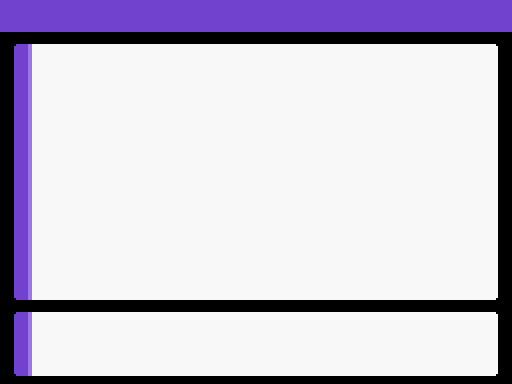
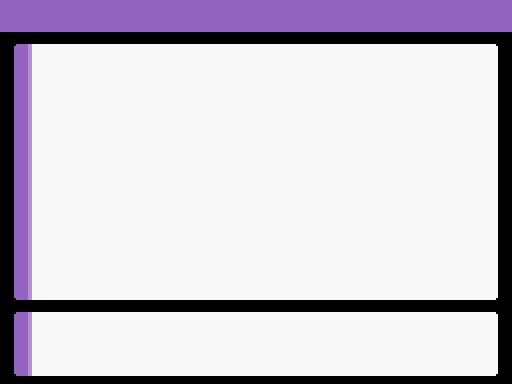
More quest log tweaks
Made the main quest page background and quest details screen background more distinct in color, and lowered the saturation on the latter
Quest detail labels are now underlined rather than bolded
Page position icons and the "new details" icon are now greyscale
Removed the reminder text about list navigation, and made the quest list longer to take up the room formerly taken by that
Changed the sound effects that play when quests are discovered, completed, and failed
The popups that display when a quest state is changed now state the quest's name

Changed region(s): [[0.0, 0.0, 1.0, 0.7812], [0.0, 0.8125, 0.0625, 1.0]]

diff --git a/Plugins/MQS/Quest_UI.rb b/Plugins/MQS/Quest_UI.rb
@@ -1,3 +1,5 @@
+SHOW_FAILED_QUESTS = true
+
 #===============================================================================
 # Class that creates the scrolling list of quest names
 #===============================================================================
@@ -24,7 +26,7 @@ class Window_Quest < Window_DrawableCommand
     return if index>=self.top_row+self.page_item_max
     rect = Rect.new(rect.x+16,rect.y,rect.width-16,rect.height)
     name = $quest_data.getName(@quests[index].id)
-    name = "<b>" + "#{name}" + "</b>" if @quests[index].story
+    name = "<u>" + "#{name}" + "</u>" if @quests[index].story
     base = self.baseColor
     shadow = self.shadowColor
     colorID = @quests[index].colorID || 0
@@ -46,7 +48,7 @@ class Window_Quest < Window_DrawableCommand
       end
       drawCursor(self.index,itemRect(self.index))
     else
-      drawFormattedTextEx(self.contents,Graphics.width/2-52,32,436,_INTL("None"),self.baseColor,self.shadowColor)
+      drawFormattedTextEx(self.contents,Graphics.width/2-64,32,436,_INTL("None"),self.baseColor,self.shadowColor)
     end
   end
   
@@ -98,7 +100,7 @@ class QuestList_Scene
       @quests_text.push("Failed")
     end
     @quest_list_type = 0
-    @sprites["itemlist"] = Window_Quest.new(22,28,Graphics.width-22,Graphics.height-80,@viewport)
+    @sprites["itemlist"] = Window_Quest.new(22,32,Graphics.width-22,Graphics.height-20,@viewport)
     @sprites["itemlist"].index = 0
     @sprites["itemlist"].baseColor = @base
     @sprites["itemlist"].shadowColor = @shadow
@@ -116,10 +118,6 @@ class QuestList_Scene
     pbDrawTextPositions(@sprites["overlay1"].bitmap,[
       [_INTL("{1} quests", @quests_text[@quest_list_type]),6,-2,0,Color.new(248,248,248),Color.new(0,0,0),true]
     ])
-    drawFormattedTextEx(@sprites["overlay_control"].bitmap,38,316,
-      436,"ARROWS: Navigate",@base,@shadow)
-    drawFormattedTextEx(@sprites["overlay_control"].bitmap,38,348,
-      436,"A/S: Jump Down/Up",@base,@shadow)
     pbFadeInAndShow(@sprites) { pbUpdate }
   end
 
@@ -128,7 +126,6 @@ class QuestList_Scene
     loop do
       @questSelectionIndex = @sprites["itemlist"].index
       @sprites["itemlist"].active = true
-      dorefresh = false
       Graphics.update
       Input.update
       pbUpdate
@@ -144,14 +141,15 @@ class QuestList_Scene
         end
       elsif Input.trigger?(Input::RIGHT)
         pbPlayCursorSE
-        @quest_list_type +=1; @quest_list_type = 0 if @quest_list_type > @quests.length-1
-        dorefresh = true
+        @quest_list_type +=1
+        @quest_list_type = 0 if @quest_list_type > @quests.length-1
+        swapQuestType
       elsif Input.trigger?(Input::LEFT)
         pbPlayCursorSE
-        @quest_list_type -=1; @quest_list_type = @quests.length-1 if @quest_list_type < 0
-        dorefresh = true
+        @quest_list_type -=1
+        @quest_list_type = @quests.length-1 if @quest_list_type < 0
+        swapQuestType
       end
-      swapQuestType if dorefresh
     end
   end
 
@@ -168,13 +166,18 @@ class QuestList_Scene
   end
   
   def swapQuestType
-    @sprites["overlay1"].bitmap.clear
     @sprites["itemlist"].index = 0 # Resets cursor position
     @sprites["itemlist"].quests = @quests[@quest_list_type]
-    @sprites["pageIcon"].x = @sprites["page_icon1"].x + 32*@quest_list_type
+    @sprites["pageIcon"].x = @sprites["page_icon1"].x + 32 * @quest_list_type
+    pbRefreshMainScreen
+  end
+
+  def pbRefreshMainScreen
+    @sprites["overlay1"].bitmap.clear
     pbDrawTextPositions(@sprites["overlay1"].bitmap,[
-      [_INTL("{1} tasks", @quests_text[@quest_list_type]),6,-2,0,Color.new(248,248,248),Color.new(0,0,0),true]
+      [_INTL("{1} Quests", @quests_text[@quest_list_type]),6,-2,0,Color.new(248,248,248),Color.new(0,0,0),true]
     ])
+    @sprites["itemlist"].refresh
   end
 
   def swapToMainScreen
@@ -188,6 +191,7 @@ class QuestList_Scene
     @sprites["overlay3"].opacity = 0
     @sprites["page_icon2"].opacity = 0
     setMainScreenBG
+    pbRefreshMainScreen
   end
 
   def swapToQuestDetailsScreen
@@ -200,6 +204,7 @@ class QuestList_Scene
     @sprites["overlay2"].opacity = 255
     @sprites["overlay3"].opacity = 255
     @sprites["page_icon2"].opacity = 255
+    @sprites["page_icon2"].mirror = false
     setQuestScreenBG
   end
   
@@ -235,14 +240,14 @@ class QuestList_Scene
         else
           pbPlayBuzzerSE
         end
-      elsif Input.trigger?(Input::UP)
+      elsif Input.trigger?(Input::UP) || Input.repeat?(Input::UP)
         if @questSelectionIndex > 0
           @questSelectionIndex -= 1
           refreshNeeded = true
         else
           pbPlayBuzzerSE
         end
-      elsif Input.trigger?(Input::DOWN)
+      elsif Input.trigger?(Input::DOWN) || Input.repeat?(Input::DOWN)
         if @questSelectionIndex < @quests[@quest_list_type].length - 1
           @questSelectionIndex += 1
           refreshNeeded = true
@@ -279,7 +284,7 @@ class QuestList_Scene
       ["#{questName}",Graphics.width/2 - 12,-2,2,Color.new(248,248,248),Color.new(0,0,0),true]
     ])
     # Quest description
-    questDesc = "<b>Overview</b>: #{$quest_data.getQuestDescription(quest.id)}"
+    questDesc = "<u>Overview</u>: #{$quest_data.getQuestDescription(quest.id)}"
     drawFormattedTextEx(@sprites["overlay3"].bitmap,38,48,
       436,questDesc,@base,@shadow)
     # Stage description
@@ -290,10 +295,11 @@ class QuestList_Scene
     if questStageLocation=="nil" || questStageLocation==""
       questStageLocation = "???"
     end
-    drawFormattedTextEx(@sprites["overlay3"].bitmap,38,316,
-      436,"<b>Task</b>: #{questStageDesc}",@base,@shadow)
-    drawFormattedTextEx(@sprites["overlay3"].bitmap,38,348,
-      436,"<b>Location</b>: #{questStageLocation}",@base,@shadow)
+    detailsStartingY = Graphics.height-70
+    drawFormattedTextEx(@sprites["overlay3"].bitmap,38,detailsStartingY,
+      436,"<u>Task</u>: #{questStageDesc}",@base,@shadow)
+    drawFormattedTextEx(@sprites["overlay3"].bitmap,38,detailsStartingY + 32,
+      436,"<u>Location</u>: #{questStageLocation}",@base,@shadow)
   end
 
   def drawOtherInfo(quest)
@@ -304,8 +310,6 @@ class QuestList_Scene
     if questGiver=="nil" || questGiver==""
       questGiver = "???"
     end
-    # Total number of stages for quest
-    questLength = $quest_data.getMaxStagesForQuest(quest.id)
     # Map quest was originally started
     originalMap = quest.location
     # Vary text according to map name
@@ -327,13 +331,14 @@ class QuestList_Scene
     yStartingPos = 48
     yGap = 72
     drawFormattedTextEx(@sprites["overlay3"].bitmap,38,yStartingPos,
-      436,"<b>Quest received from</b>:",@base,@shadow)
+      436,"<u>Quest received from</u>:",@base,@shadow)
     drawFormattedTextEx(@sprites["overlay3"].bitmap,38,yStartingPos+yGap*1,
-      436,"<b>Quest discovered #{loc}</b>:",@base,@shadow)
+      436,"<u>Quest discovered #{loc}</u>:",@base,@shadow)
     drawFormattedTextEx(@sprites["overlay3"].bitmap,38,yStartingPos+yGap*2,
-      436,"<b>Quest #{time_text} time</b>:",@base,@shadow)
-    drawFormattedTextEx(@sprites["overlay3"].bitmap,38,Graphics.height-68,
-      436,"<b>Reward</b>: #{questReward}",@base,@shadow)
+      436,"<u>Quest #{time_text} time</u>:",@base,@shadow)
+    detailsStartingY = Graphics.height-70
+    drawFormattedTextEx(@sprites["overlay3"].bitmap,38,detailsStartingY,
+      436,"<u>Reward</u>: #{questReward}",@base,@shadow)
     yStartingPos += 24
     textpos = [
         ["#{questGiver}",38,yStartingPos,0,@base,@shadow],

diff --git a/Plugins/MQS/Quest_Main.rb b/Plugins/MQS/Quest_Main.rb
@@ -75,7 +75,9 @@ class Player_Quests
       end
     end
     @active_quests.push(Quest.new(quest,color,story))
-    questAlert(_INTL("New quest discovered!")) unless skipAlert
+    unless skipAlert
+      questAlert(_INTL("\\me[{1}]Quest discovered:","Register phone"),quest)
+    end
     return true
   end
   
@@ -105,7 +107,9 @@ class Player_Quests
         @failed_quests.push(temp_quest)
         @active_quests.delete_at(i)
         found = true
-        questAlert(_INTL("Quest failed!")) unless skipAlert
+        unless skipAlert
+          questAlert(_INTL("Quest failed:"),quest)
+        end
         break
       end
     end
@@ -139,7 +143,9 @@ class Player_Quests
         @completed_quests.push(temp_quest)
         @active_quests.delete_at(i)
         found = true
-        questAlert(_INTL("Quest completed!")) unless skipAlert
+        unless skipAlert
+          questAlert(_INTL("\\me[{1}]Quest completed:","Slots win"),quest)
+        end
         break
       end
     end
@@ -161,7 +167,9 @@ class Player_Quests
         @active_quests[i].colorID = color if color
         @active_quests[i].new = true # Setting this back to true makes the "!" icon appear when the quest updates
         found = true
-        questAlert(_INTL("Quest updated with the next task!")) unless skipAlert
+        unless skipAlert
+          questAlert(_INTL("\\se[{1}]Quest updated:","Mining found all"),quest)
+        end
       end
       return true if found
     end
@@ -199,7 +207,9 @@ class Player_Quests
         @active_quests[i].colorID = color if color
         @active_quests[i].new = true # Setting this back to true makes the "!" icon appear when the quest updates
         found = true
-        questAlert(_INTL("Quest updated with the next task!")) unless skipAlert
+        unless skipAlert
+          questAlert(_INTL("\\se[{1}]Quest updated:","Mining found all").quest)
+        end
       end
       return true if found
     end
@@ -211,8 +221,12 @@ class Player_Quests
     return true
   end
 
-  def questAlert(text)
-    pbMessage(_INTL("\\wm\\se[{1}]<ac>\\c[2]{2}</c>\nCheck your quest log for more details!</ac>",QUEST_JINGLE,text))
+  def questAlert(text,quest)
+    pbMessage(_INTL("\\wm\<ac>\\c[2]{1}</c>\n{2}</ac>\\wtnp[{3}]",text,$quest_data.getName(quest),questAlertDuration))
+  end
+
+  def questAlertDuration
+    return 60 - $Options.textspeed * 4
   end
 end
 
